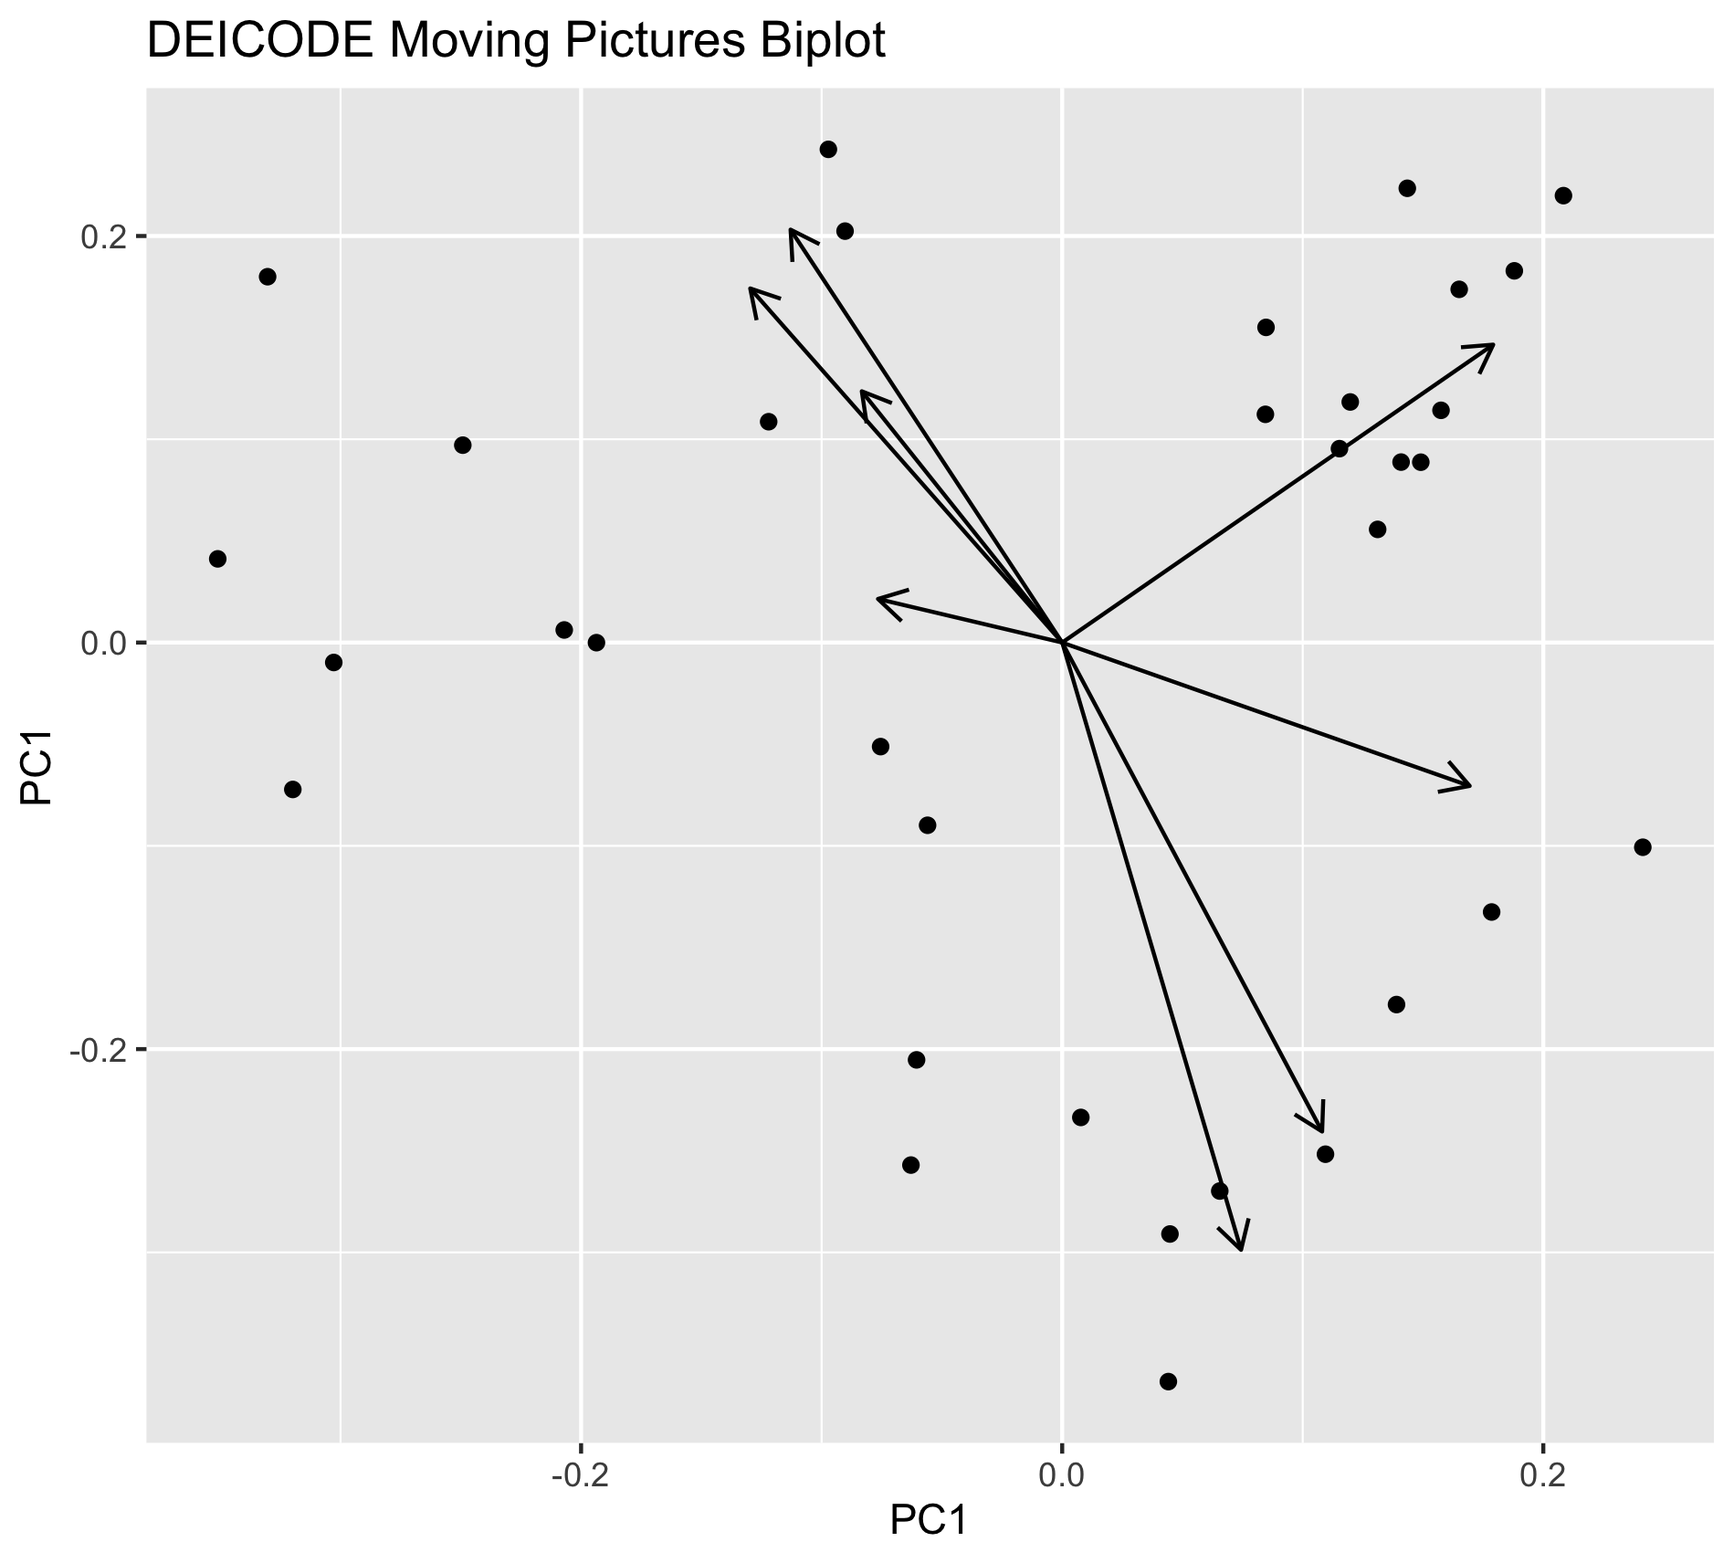
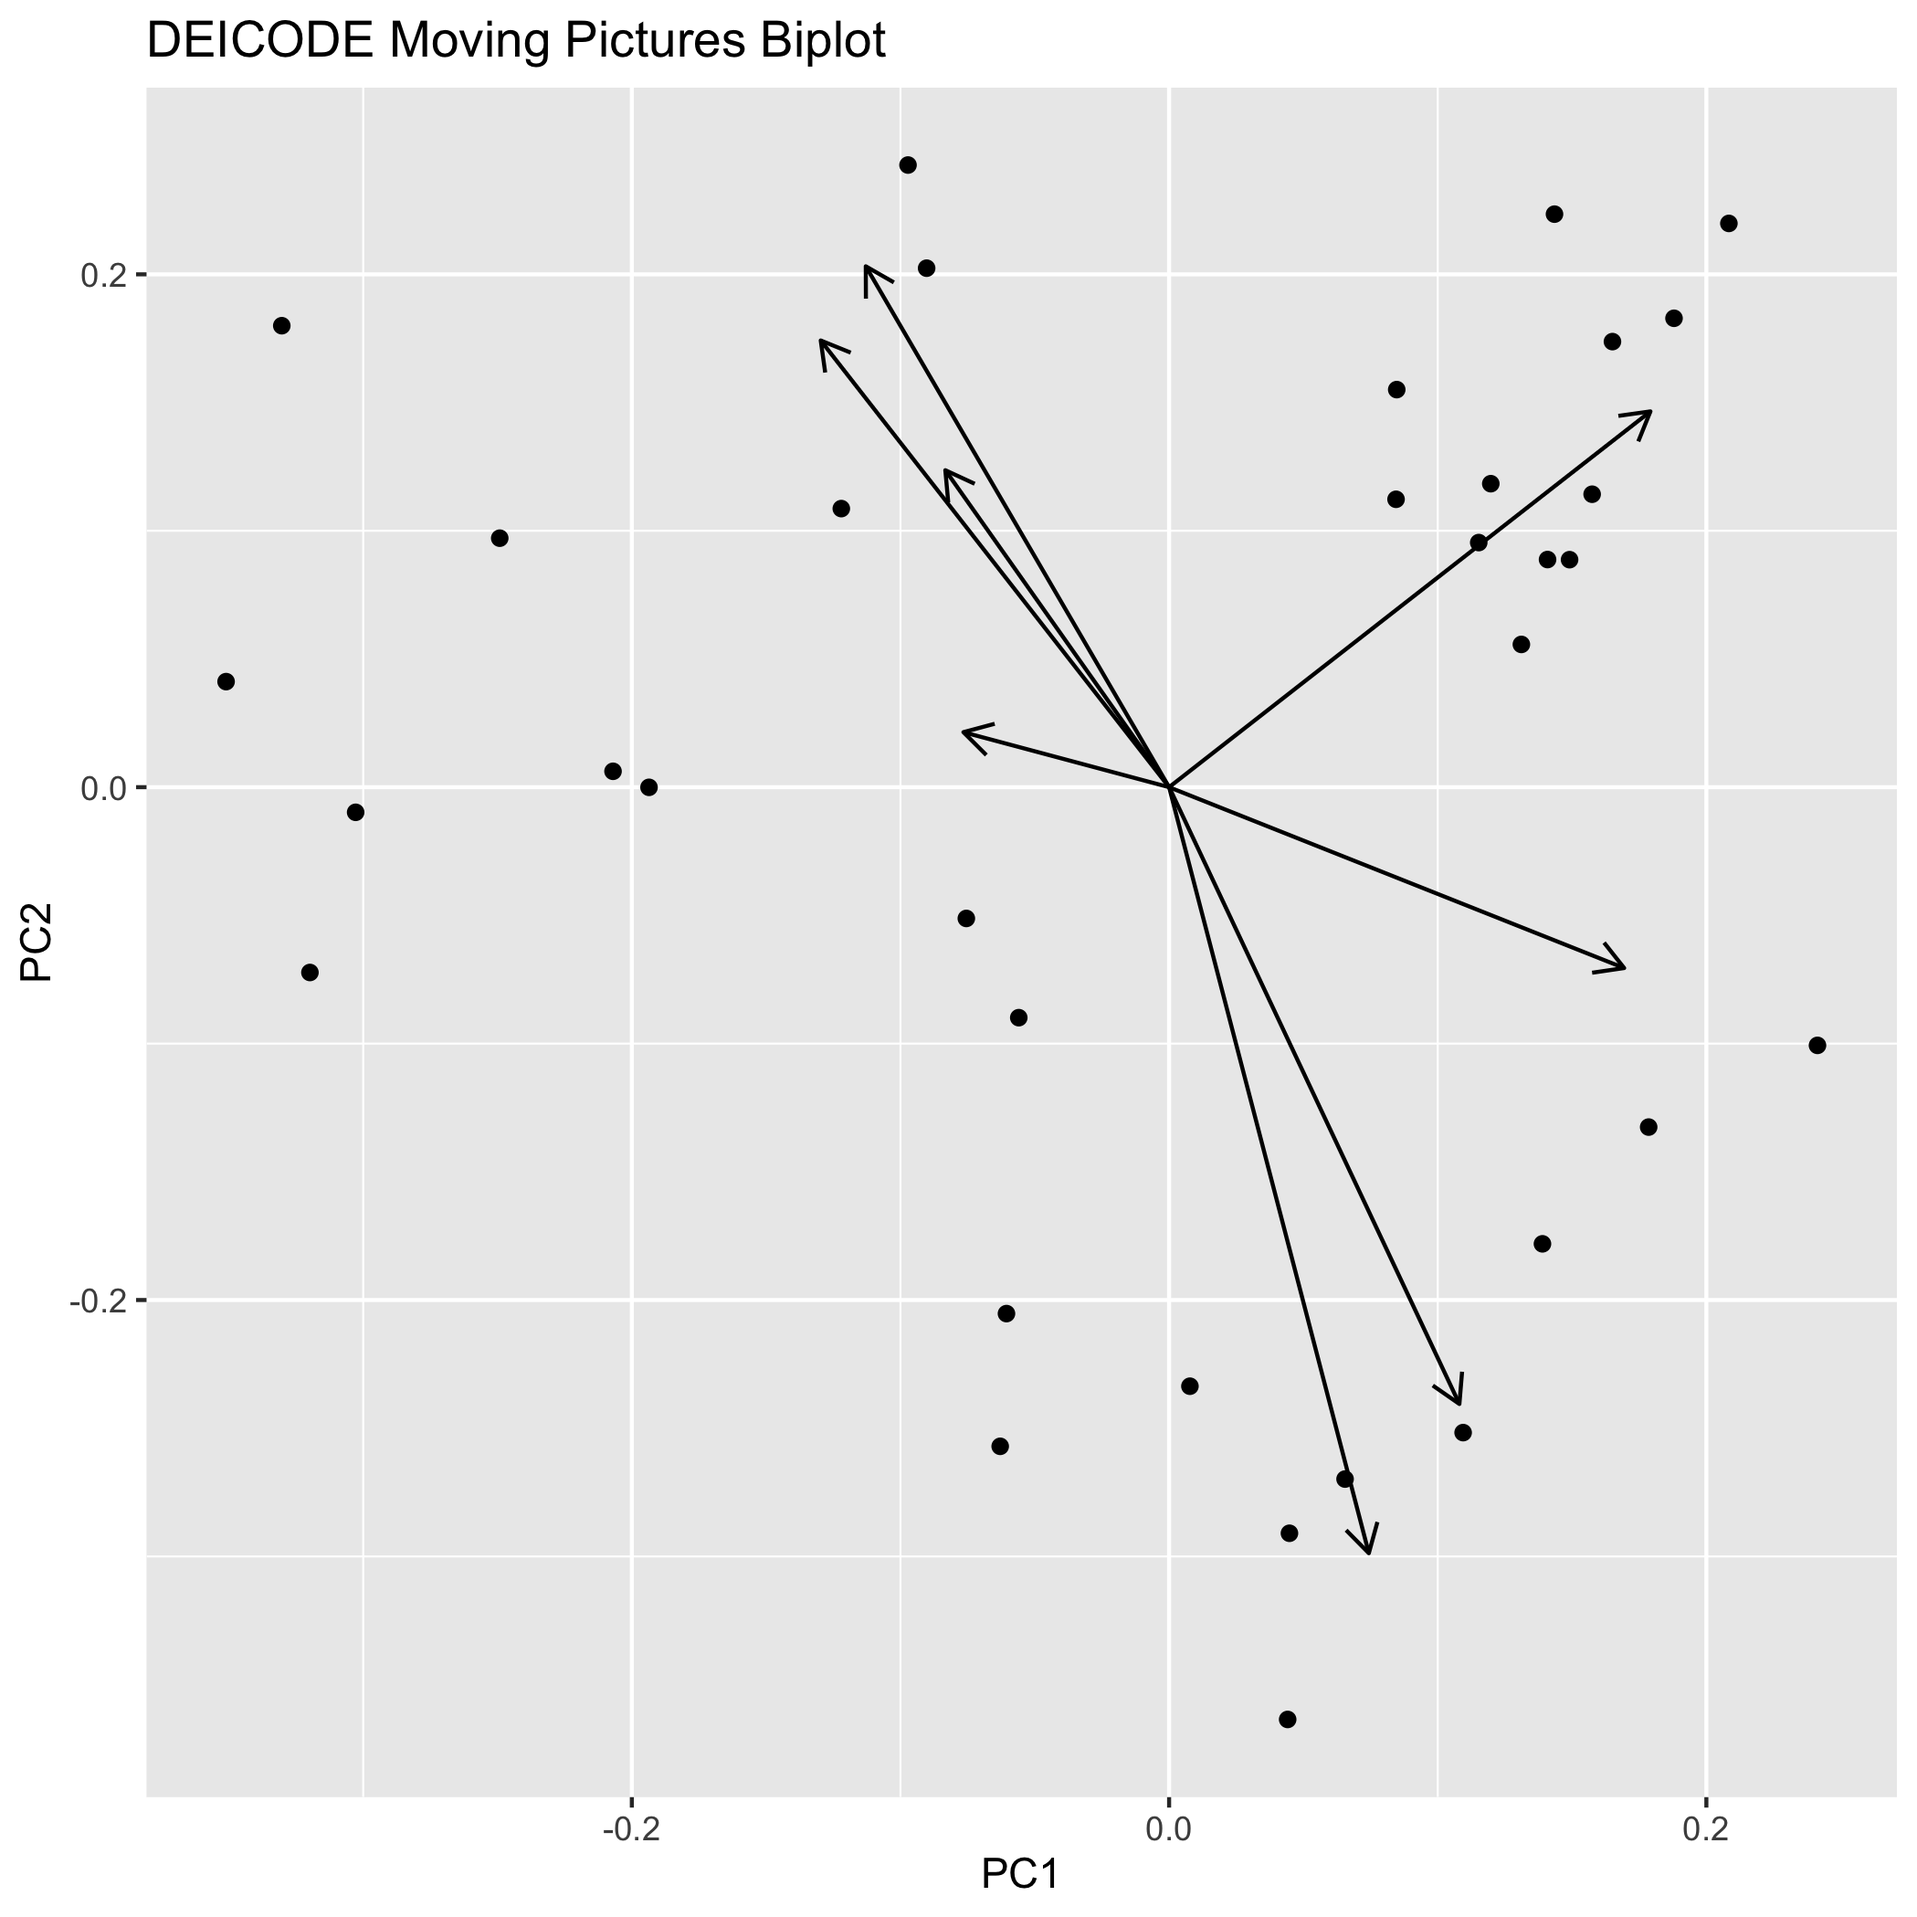
fix typo in ordination R code

diff --git a/_posts/2020-10-09-skbio_ordination_r.md b/_posts/2020-10-09-skbio_ordination_r.md
@@ -11,9 +11,11 @@ tags:
   - visualization
 ---
 
+EDIT (10/12/2020): Updated code to properly label y-axis as `PC2`.
+
 Recently a friend of mine asked if I had any experience importing an [`skbio.stats.ordination`](http://scikit-bio.org/docs/0.5.2/generated/skbio.stats.ordination.html) object in R. I hadn't, unfortunately, as I usually work with QIIME2 & Python in tandem. I do expect that I'll be using R more often as my PhD progresses so I decided to take a stab at a very simple way to extract and plot the data from this format.
 
-When you export an `skbio` ordination object, the text file contains entries for the eigenvalues, proportion explained, and sites (analogous to samples in what I do). Additionally, if the ordination is a biplot, it will contain entries for species as well (analogous to microbes in what I do). There are also spaces for "Biplot" and "Site constraints" which I'm not familiar with. These entries are basically stored in sub-TSVs so this snippet just takes each of these set of values and extracts them to their own data frame. Then I wrote a simple function to plot the samples as points and features as arrows. Of course, this can be snazzed up with fancy `ggplot2` accoutrements but for this demonstration I kept it relatively simple.
+When you export an `skbio` ordination object, the text file contains entries for the eigenvalues, proportion explained, and sites (analogous to samples in what I do). Additionally, if the ordination is a biplot, it will contain entries for species as well (analogous to microbes in what I do). There are also spaces for "Biplot" and "Site constraints" which I'm not familiar with. These entries are basically stored in sub-TSVs so this snippet just takes each of these set of values and extracts them to their own data frame. Then I wrote some rudimentary code to plot the samples as points and features as arrows. Of course, this can be snazzed up with fancy `ggplot2` accoutrements but for this demonstration I kept it relatively simple.
 
 ![biplot_R](../assets/imgs/deicode_mp_biplot.png)
 
@@ -79,7 +81,7 @@ ggplot(sites_coords, aes(x = X1, y = X2)) +
     arrow = arrow(length=unit(0.3, "cm"))
   ) +
   xlab("PC1") +
-  ylab("PC1") +
+  ylab("PC2") +
   ggtitle("DEICODE Moving Pictures Biplot")
 
 ggsave("deicode_mp_biplot.png")
